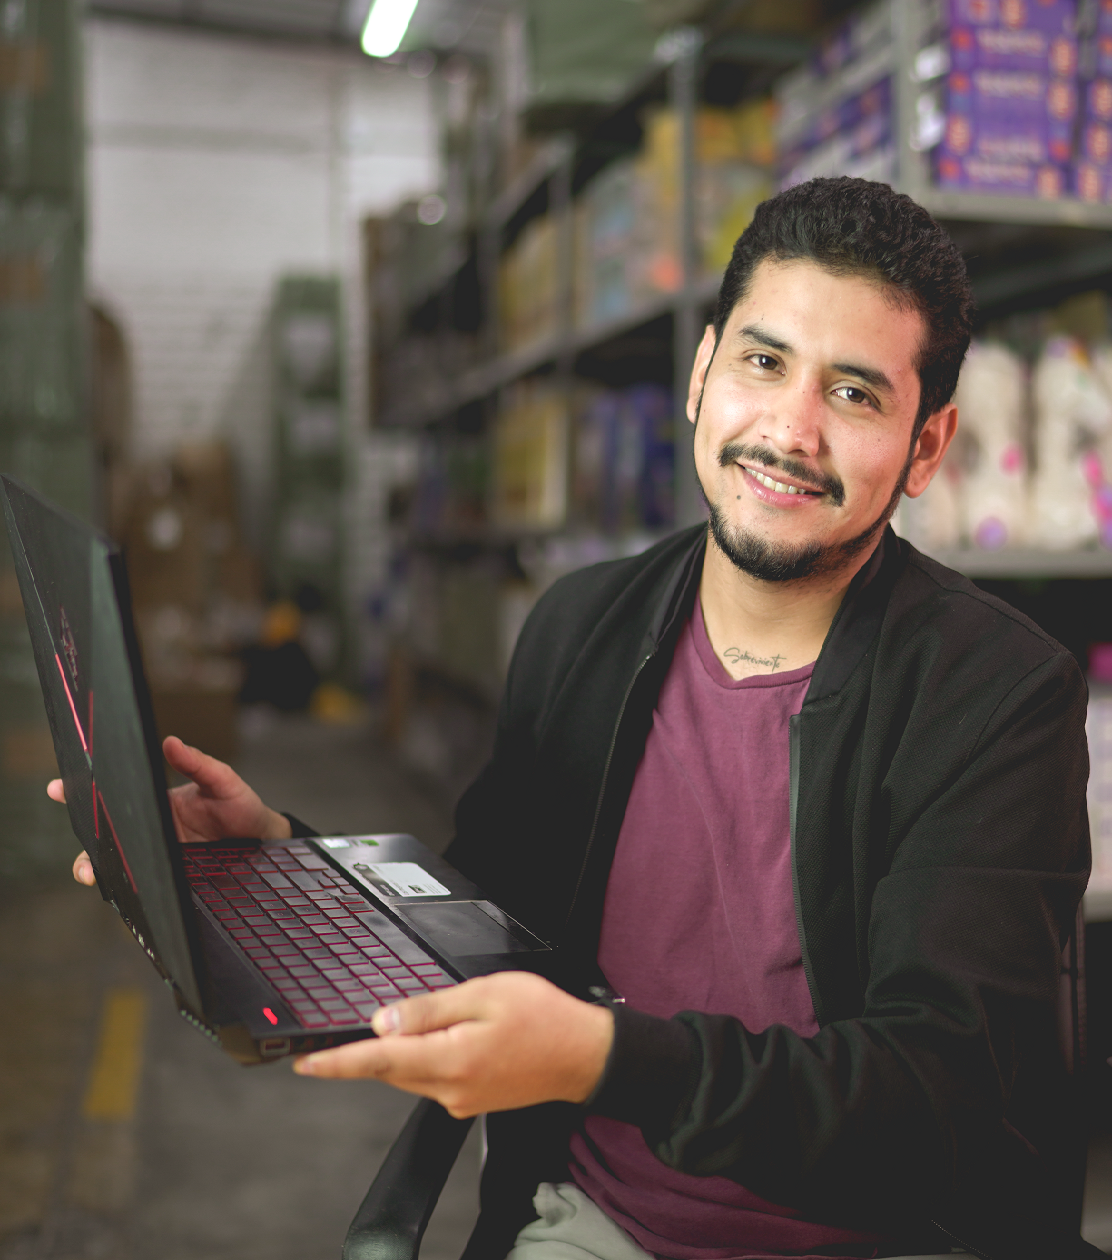
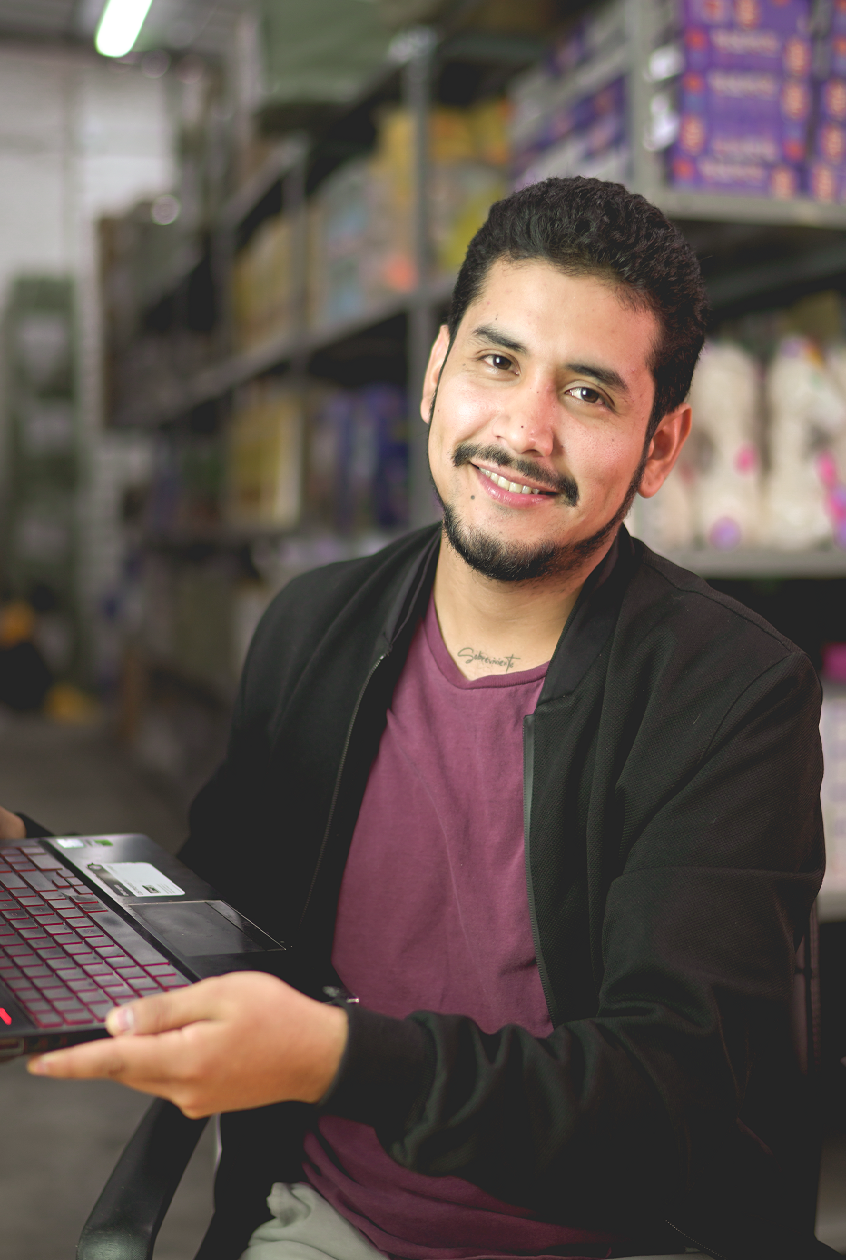
remove:daniel,renove:miguel photo

diff --git a/application/views/Web/views/curso_membresia.php b/application/views/Web/views/curso_membresia.php
@@ -802,10 +802,10 @@
               </div>
          </div>
          <div class="col-md-12 shorts my-auto d-flex flex-wrap">
-            <div class="col-md-8 col-6 mb-3 px-2 wow fadeInUp" data-wow-duration=".5s" data-wow-delay=".2s">
+            <div class="col-md-4 col-6 mb-3 px-2 wow fadeInUp" data-wow-duration=".5s" data-wow-delay=".2s">
                 <div class="w-100">
                     <div class="bx-img">
-                      <img src="<?php echo base_url("assets/img/nosotros/team_miguel2.png"); ?>" class="img-fluid" alt="CEO Miguel Villegas">
+                      <img src="<?php echo base_url("assets/img/nosotros/team_miguel.jpeg"); ?>" class="img-fluid" alt="CEO Miguel Villegas">
                       <button class="border-0 bg-transparent"><i class="bi bi-plus-square"></i></button>
                     </div>
                     <div class="mt-md-3 mt-3">

diff --git a/application/views/Web/views/aboutus.php b/application/views/Web/views/aboutus.php
@@ -159,7 +159,7 @@
             <h6 class=" text-white mb-5 mb-md-0 fs-2 my-auto  wow fadeInUp" data-wow-duration=".5s" data-wow-delay=".2s">Nuestro equipo de trabajo</h6>
          </div>
          <div class="col-md-9 col-12 my-auto d-flex flex-wrap">
-            <div class="col-md-8 col-6 mb-6 px-2 wow fadeInUp" data-wow-duration=".5s" data-wow-delay=".2s">
+            <div class="col-md-4 col-6 mb-6 px-2 wow fadeInUp" data-wow-duration=".5s" data-wow-delay=".2s">
                 <div class="w-100">
                     <div class="bx-img">
                          <img src="<?php echo base_url("assets/img/nosotros/team_miguel2.png"); ?>" class="img-fluid" alt="CEO Miguel Villegas">

diff --git a/application/views/Web/views/curso_membresia_v1.php b/application/views/Web/views/curso_membresia_v1.php
@@ -456,7 +456,7 @@
               </div>
          </div>
          <div class="col-md-12 shorts my-auto d-flex flex-wrap">
-            <div class="col-md-8 col-6 mb-3 px-2 wow fadeInUp" data-wow-duration=".5s" data-wow-delay=".2s">
+            <div class="col-md-4 col-6 mb-3 px-2 wow fadeInUp" data-wow-duration=".5s" data-wow-delay=".2s">
                 <div class="w-100">
                     <div class="bx-img">
                       <img src="<?php echo base_url("assets/img/nosotros/team_miguel2.png"); ?>" class="img-fluid" alt="CEO Miguel Villegas">
